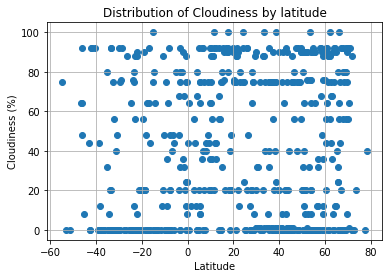
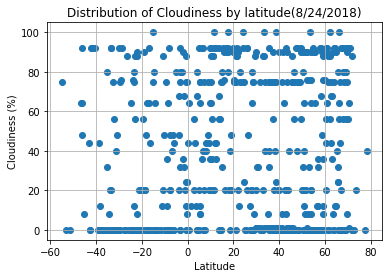
changes in md file

Changed region(s): [[0.1531, 0.0288, 0.9184, 0.0863]]

diff --git a/WeatherPy_Hw.md b/WeatherPy_Hw.md
@@ -1,7 +1,3 @@
-# Description- three observable trends based on the data are as follows 
-- The temperature was plotted for 500+ cities across the world of varying distance from the equator. We found that the temperature values had a peak for latitude value (+20) from the equator.
-- The wind speeds are greater for cities with higher latitude values from equator.
-- The cloudiness and humidity values are almost symmetric around the equator as the axis for various latitude values of the cities.
 
 
 ```python
@@ -826,7 +822,7 @@ city_data.to_csv("city_data.csv", encoding="utf-8", index=False)
 plt.scatter(lat, temp, marker="o")
 
 # Incorporate the other graph properties
-plt.title("Distribution of Temperature by latitude")
+plt.title("Distribution of Temperature by latitude(8/24/2018)")
 plt.ylabel("Temperature (Farenheit)")
 plt.xlabel("Latitude")
 plt.grid(True)
@@ -848,7 +844,7 @@ plt.show()
 plt.scatter(lat, humidity, marker="o")
 
 # Incorporate the other graph properties
-plt.title("Distribution of Humidity by latitude")
+plt.title("Distribution of Humidity by latitude(8/24/2018)")
 plt.ylabel("Humidity (%)")
 plt.xlabel("Latitude")
 plt.grid(True)
@@ -870,7 +866,7 @@ plt.show()
 plt.scatter(lat, wind_speed, marker="o")
 
 # Incorporate the other graph properties
-plt.title("Distribution of Wind Speed by latitude")
+plt.title("Distribution of Wind Speed by latitude(8/24/2018)")
 plt.ylabel("Wind Speed (mph)")
 plt.xlabel("Latitude")
 plt.grid(True)
@@ -892,7 +888,7 @@ plt.show()
 plt.scatter(lat, cloudiness, marker="o")
 
 # Incorporate the other graph properties
-plt.title("Distribution of Cloudiness by latitude")
+plt.title("Distribution of Cloudiness by latitude(8/24/2018)")
 plt.ylabel("Cloudiness (%)")
 plt.xlabel("Latitude")
 plt.grid(True)
